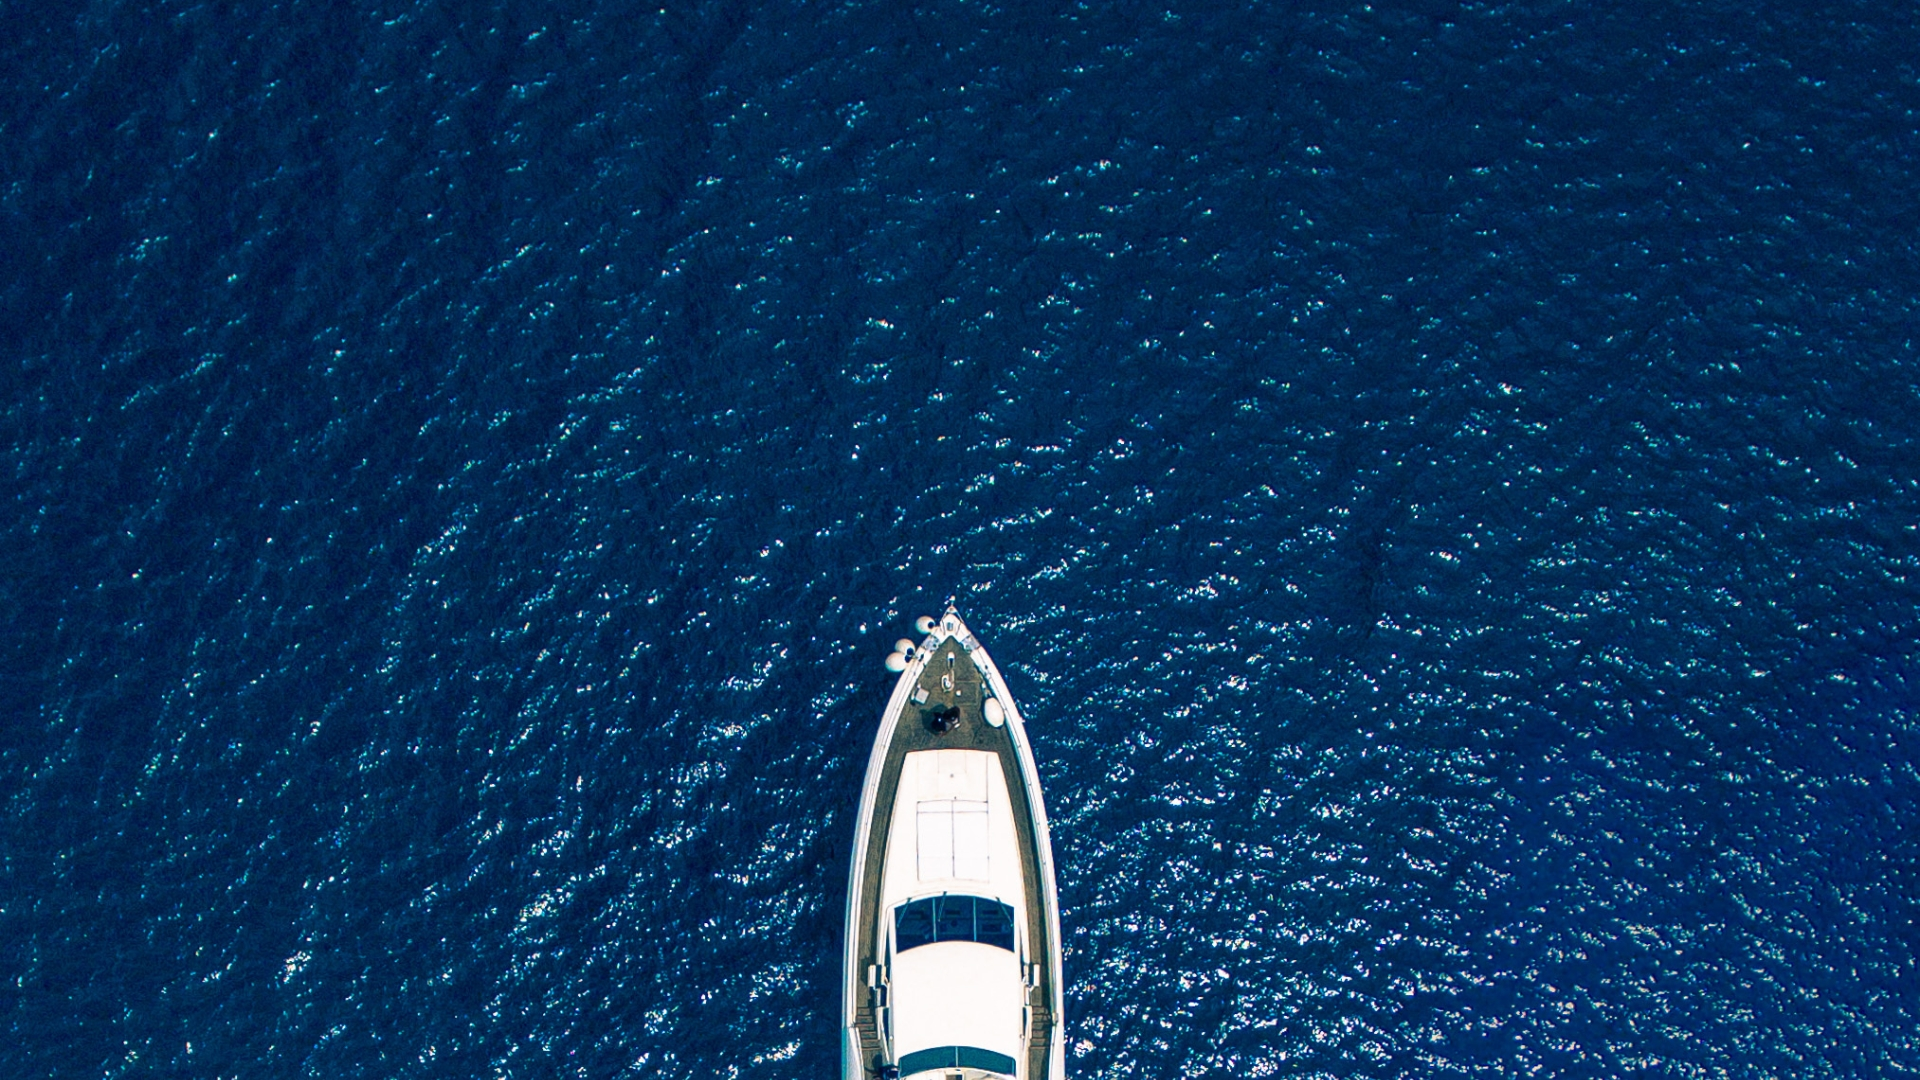
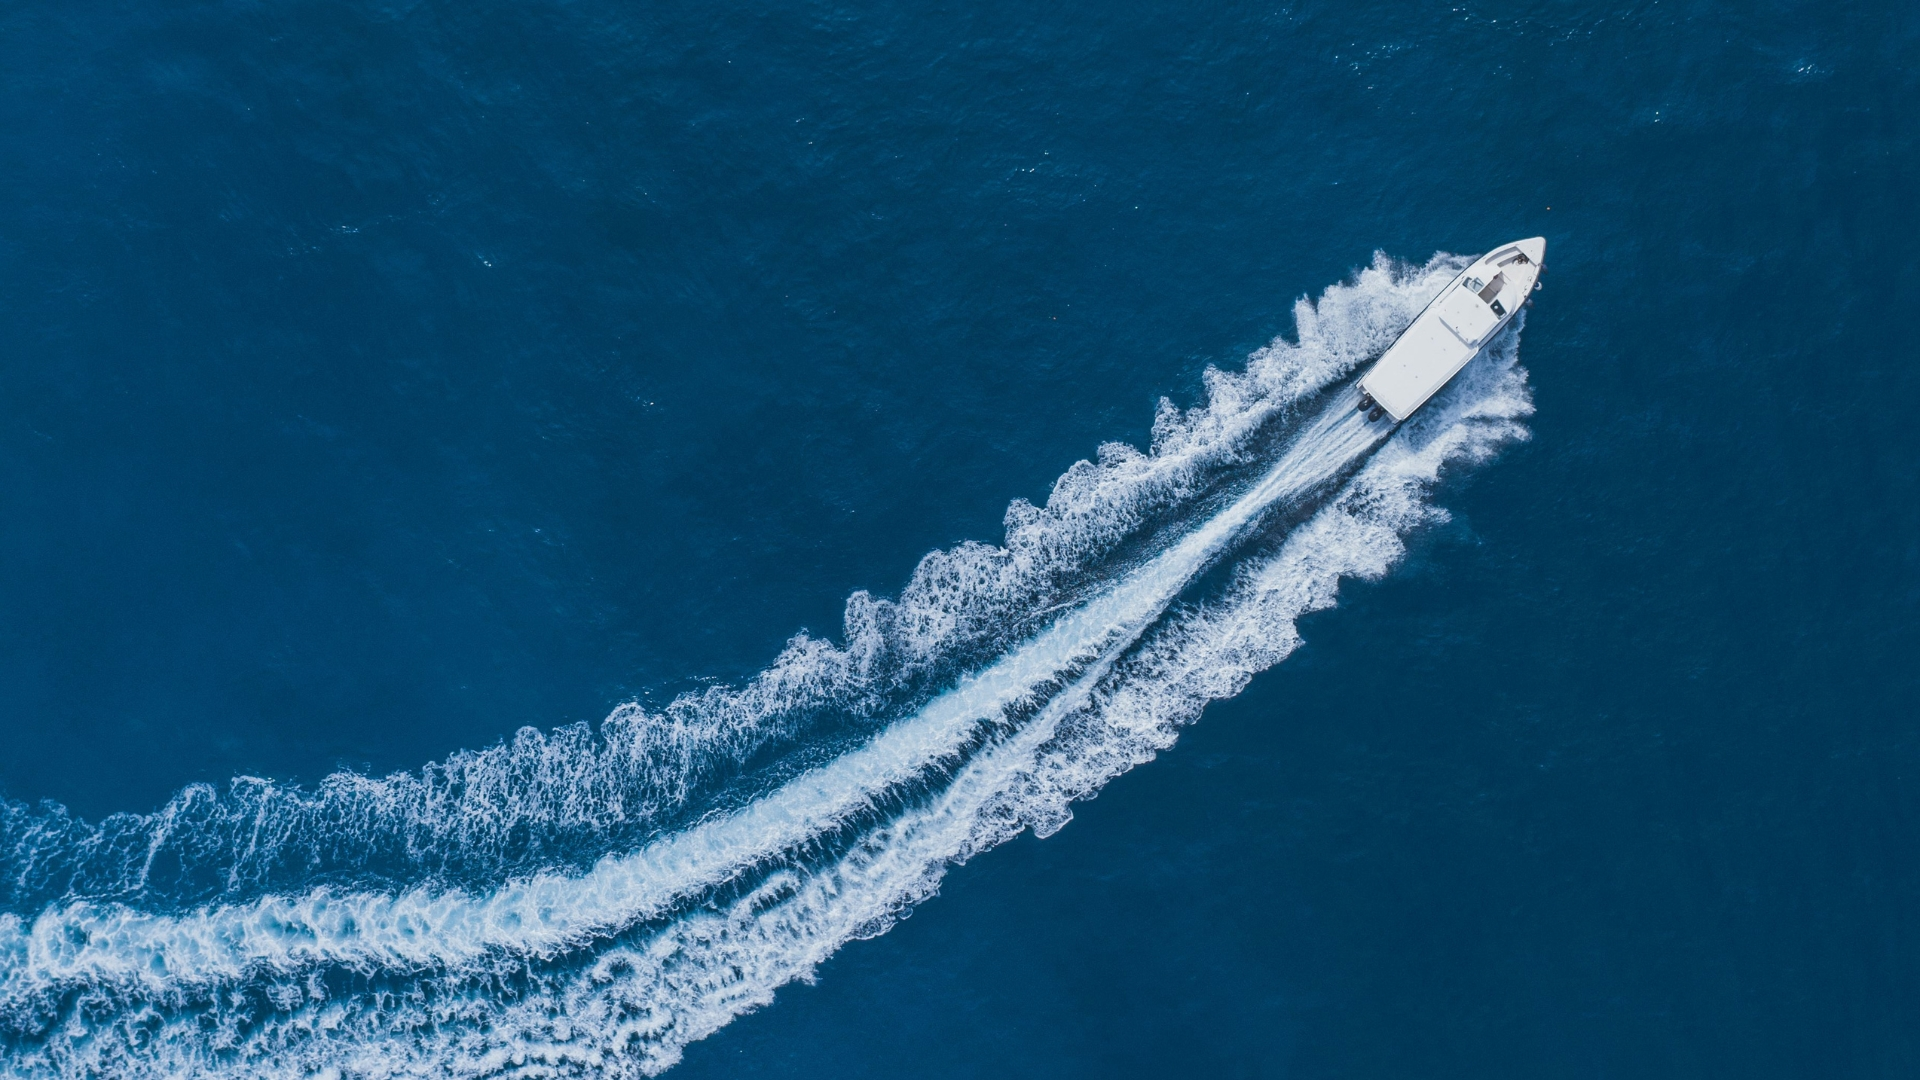
feat: update hero background photo, remove the parallax zoom-in scale

diff --git a/src/components/home/Hero.tsx b/src/components/home/Hero.tsx
@@ -42,7 +42,7 @@ export function Hero() {
         {/* Parallax background */}
         <div
           ref={bgRef}
-          className="absolute inset-0 scale-[1.18]"
+          className="absolute inset-0"
           style={{ transformOrigin: 'center top', willChange: 'transform' }}
         >
           <Image